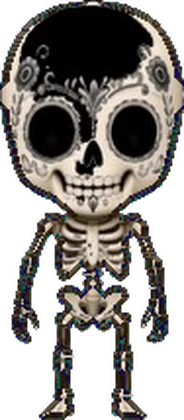
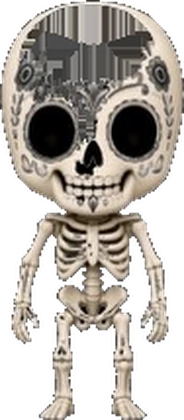
Fix the black cap bleeding through the little skeleton.
The cranium was a sealed black patch, so it survived the backdrop cut and showed on the title card and in play. Bone color fills that patch, and the dark card behind every character is gone.

diff --git a/src/play/waves.ts b/src/play/waves.ts
@@ -115,9 +115,9 @@ type AnimName = keyof typeof ANIM;
 // h = world height that a 320px-tall body should be; stride = world units per walk cycle
 const ART = {
   boy: sheet('calavera-boy', 3328, 1302, 416, 434, 208, 422, 1.64, 1.5, 6, 1, 3),
-  girl: sheet('catrina-girl', 2576, 1086, 368, 362, 184, 354, 2.02, 1.55, 7, 1, 2, '?v=4'),
+  girl: sheet('catrina-girl', 2576, 1086, 368, 362, 184, 354, 2.02, 1.55, 7, 1, 2, '?v=5'),
   // the little calaverita skeleton from the home-screen plaza: small, fast, hops toward the line, 1 hit
-  calaca: sheet('calaverita-small', 1968, 1086, 328, 362, 164, 354, 1.25, 1.6, 6, 1, 3, '?v=5'),
+  calaca: sheet('calaverita-small', 1968, 1086, 328, 362, 164, 354, 1.25, 1.6, 6, 1, 3, '?v=6'),
   // the ORIGINAL Chanclazo luchador (red/yellow mask, shirtless, LUCHA belt; source public/play/luchador_sprite.webp) = the boss
   lucha: sheet('luchador-boss', 2744, 1038, 343, 346, 170, 339, 4.1, 3.0), // 1.5x bigger boss (Gabe, 2026-11-10); hp bar follows via BOSS_HEAD
 };
@@ -203,21 +203,14 @@ function spawnKid(kind: Kind, lane: number, speed: number, golden = false): Kid 
   const scale = kind === 'jefe' ? 1.3 : 1;
   const h = a.h * scale * (a.ch / 320), w = h * (a.cw / a.ch); // plane = one atlas cell
   const map = a.tex.clone(); map.repeat.set(a.cw / a.W, a.ch / a.H); // the clone shares the image (no extra memory)
-  const mat = new THREE.MeshBasicMaterial({ map, alphaTest: 0.45, side: THREE.FrontSide, fog: kind !== 'girl' && kind !== 'calaca' });
+  const mat = new THREE.MeshBasicMaterial({ map, alphaTest: 0.45, side: THREE.FrontSide, fog: false });
   const flashMat = new THREE.MeshBasicMaterial({ map, color: 0xffffff, transparent: true, opacity: 0, blending: THREE.AdditiveBlending, depthWrite: false, alphaTest: 0.45, side: THREE.FrontSide, fog: false });
   const root = new THREE.Group();
   const gk = `${kind}${variant}`;
   const body = new THREE.Mesh(geoFor(gk, w, h, a.ax / a.cw, a.ay / a.ch), mat); body.castShadow = true;
   const flash = new THREE.Mesh(geoFor(gk, w, h, a.ax / a.cw, a.ay / a.ch), flashMat); flash.position.z = 0.01; body.add(flash);
-  // a dark card behind the cutout reads as a black stain on the white faces, so the girl and the little skeleton stay a single clean layer
-  const edgeMat = new THREE.MeshBasicMaterial({ map, color: 0x241028, alphaTest: 0.45, side: THREE.FrontSide, fog: true });
-  if (kind !== 'girl' && kind !== 'calaca') {
-    for (let i = 1; i <= 4; i++) {
-      const edge = new THREE.Mesh(body.geometry, edgeMat);
-      edge.position.set(0, -0.012 * i, -0.028 * i);
-      edge.castShadow = false; body.add(edge);
-    }
-  }
+  // no dark copy behind the cutout: it showed through the white faces as a black stain
+  const edgeMat = new THREE.MeshBasicMaterial({ map, color: 0xffffff, alphaTest: 0.45, side: THREE.FrontSide, fog: false });
   if (kind === 'jefe') mat.color.setHex(0xd8c8ff); // big brother: a touch of purple
   root.add(body);
   const bodyW = kind === 'girl' ? w * (210 / a.cw) : kind === 'calaca' ? w * (165 / a.cw) : w;

diff --git a/waves.html b/waves.html
@@ -173,10 +173,10 @@ body::before{content:"";position:fixed;inset:0;background:rgba(6,2,12,.82);backd
 
   <div class="screen" id="title"><div class="card">
     <div class="cast" aria-hidden="true">
-      <img src="/waves/title/boy.webp" alt="" />
-      <img src="/waves/title/girl.webp" alt="" />
-      <img src="/waves/title/calaca.webp" alt="" />
-      <img class="boss" src="/waves/title/lucha.webp" alt="" />
+      <img src="/waves/title/boy.webp?v=6" alt="" />
+      <img src="/waves/title/girl.webp?v=6" alt="" />
+      <img src="/waves/title/calaca.webp?v=6" alt="" />
+      <img class="boss" src="/waves/title/lucha.webp?v=6" alt="" />
     </div>
     <h1 class="gname">%%WAVES_NAME%%</h1>
     <button class="btn gold" id="play" aria-label="Tap to play %%WAVES_NAME%%">TAP TO PLAY</button>
